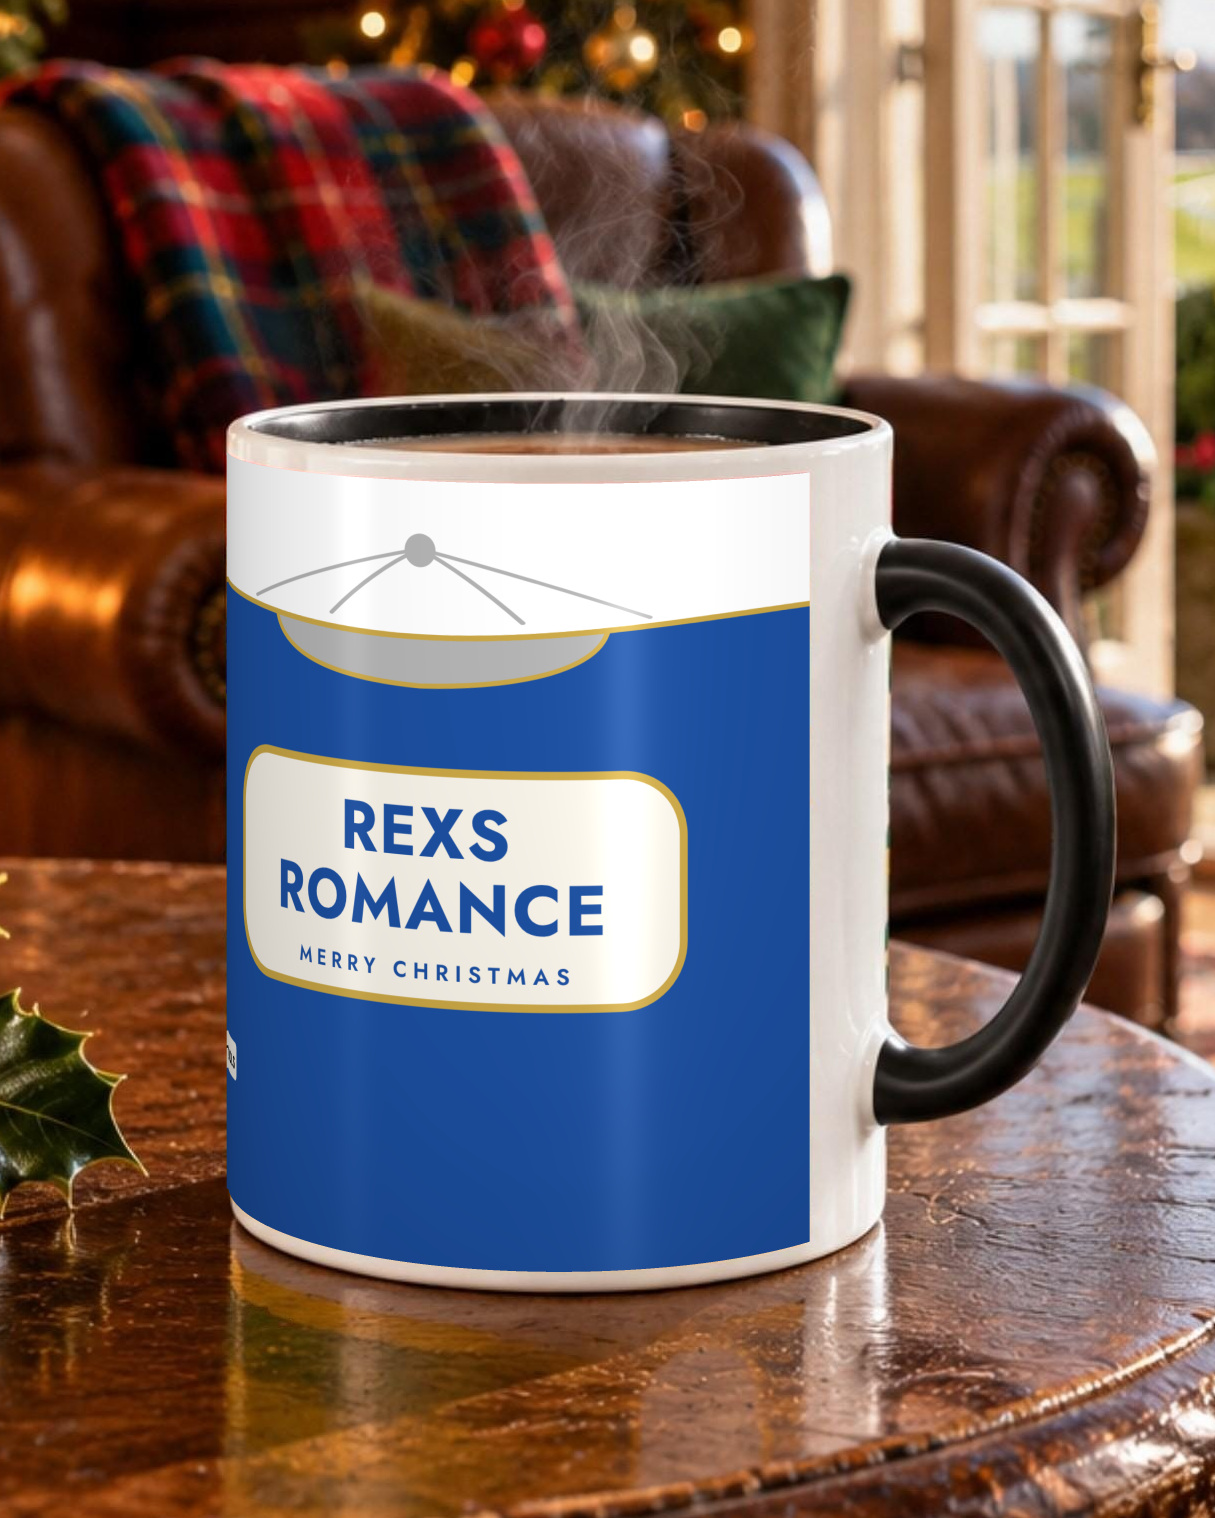
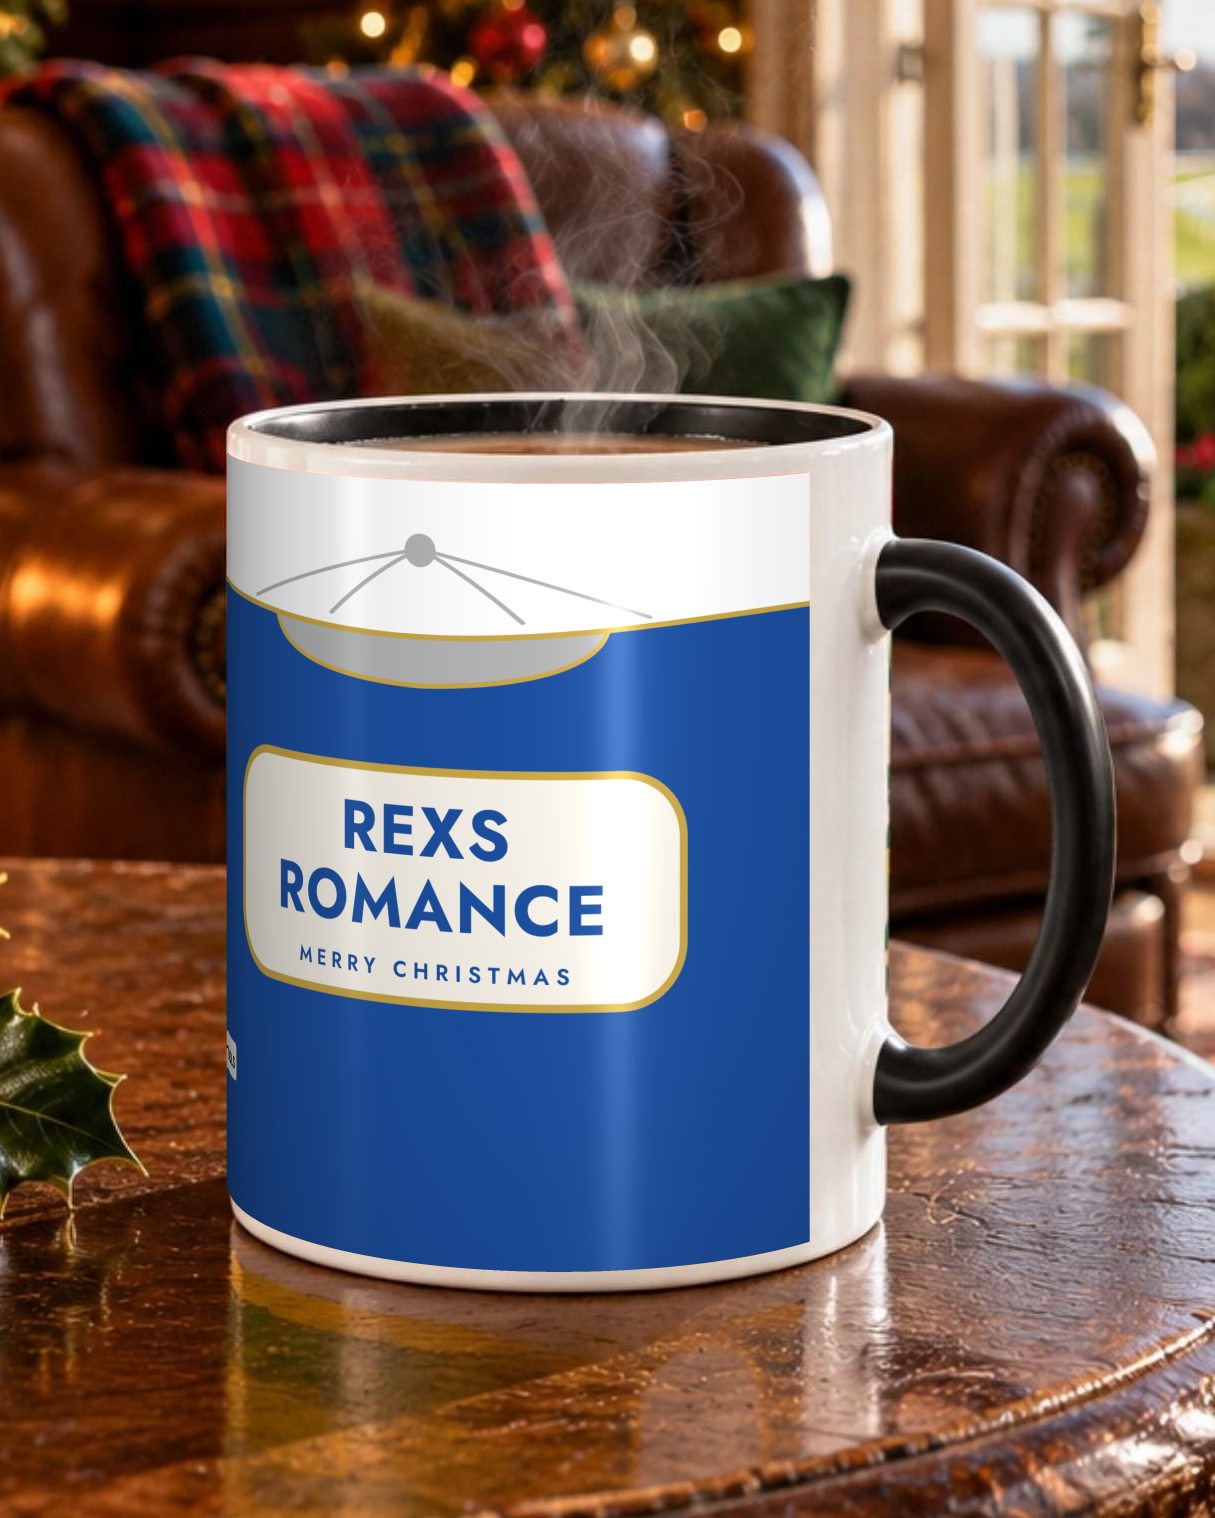
Mug B scene photos: stronger edge shading and highlight
Claude-Session: https://claude.ai/code/session_012o9aG4Q2FPZVtw19tvwRpK

Changed region(s): [[0.1827, 0.2787, 0.2436, 0.774], [0.4872, 0.4025, 0.5177, 0.4335]]

diff --git a/print-qa/2026-11-26-mugB/scene/scene.py b/print-qa/2026-11-26-mugB/scene/scene.py
@@ -28,9 +28,9 @@ def wrap(art_png, out):
     fxc = np.clip(fx, 0, AW - 2); x0i = fxc.astype(int); wx = (fxc - x0i)[..., None]
     y0i = np.clip(fy, 0, AH - 2).astype(int); wy = (np.clip(fy, 0, AH - 2) - y0i)[..., None]
     smp = art[y0i, x0i] * (1 - wx) * (1 - wy) + art[y0i, x0i + 1] * wx * (1 - wy) + art[y0i + 1, x0i] * (1 - wx) * wy + art[y0i + 1, x0i + 1] * wx * wy
-    side = np.where(u < 0, 0.74 + 0.26 * cz ** 0.7, 0.88 + 0.12 * cz ** 0.7)       # darker to both edges (more on the shadow side)
+    side = np.where(u < 0, 0.55 + 0.45 * cz ** 0.9, 0.80 + 0.20 * cz ** 0.9)       # darker to both edges (more on the shadow side)
     shade = (side * (1 - 0.10 * v ** 3))[..., None]
-    streak = (0.13 * np.exp(-((u - 0.20) / 0.07) ** 2) + 0.05 * np.exp(-((u - 0.20) / 0.22) ** 2) + 0.06 * np.exp(-((u + 0.62) / 0.05) ** 2))
+    streak = (0.24 * np.exp(-((u - 0.18) / 0.06) ** 2) + 0.08 * np.exp(-((u - 0.18) / 0.20) ** 2) + 0.06 * np.exp(-((u + 0.62) / 0.05) ** 2))
     streak = (streak * (1 - 0.6 * v ** 2))[..., None]
     lit = np.clip(smp * shade + 255 * streak * (0.45 + 0.55 * smp.mean(-1, keepdims=True) / 255), 0, 255)
     cov = ok.astype(float)[..., None]
